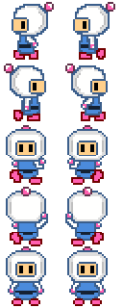
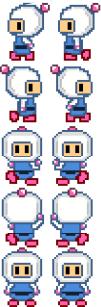
changement map & colision fix

diff --git a/js/map.js b/js/map.js
@@ -1,4 +1,4 @@
-export {tilemap_loaded, tileset_loaded, cam_x, cam_y, map_cnv};
+export {tilemap_loaded, tileset_loaded, cam_x, cam_y, map_cnv, posbloc};
 
 
 let cnv = document.getElementById('myCanvas');
@@ -12,7 +12,9 @@ let tileset_loaded = 0;
 let tileset_elts = [];
 let cam_x = 0;
 let cam_y = 0;
-let zoom = 5;
+let zoom = 10;
+let posbloc = [];
+
 
 export default function onload_tilemap() {
 	if (this.status == 200) {
@@ -125,10 +127,15 @@ export default function onload_tilemap() {
 							16 * zoom,
 							16 * zoom
 						);
+						posbloc.push([iw * (16 * zoom),
+							ih * (16 * zoom),
+							16 * zoom,
+							16 * zoom]);
 					}
 					layer1_data_i += 1;
 				}
 			}
+			let posBuisson = [];
 			let layer2_data_i = 0;
 			for (let ih = 0, nh = layer2_height; ih < nh; ih += 1) {
 				for (let iw = 0, nw = layer2_width; iw < nw; iw += 1) {
@@ -140,10 +147,15 @@ export default function onload_tilemap() {
 							16 * zoom,
 							16 * zoom
 						);
+						posBuisson.push([iw * (16 * zoom),
+							ih * (16 * zoom),
+							16 * zoom,
+							16 * zoom]);
 					}
 					layer2_data_i += 1;
 				}
 			}
+			console.log(posbloc)
 		};
 	}
 }
@@ -151,5 +163,5 @@ export default function onload_tilemap() {
 let xobj = new XMLHttpRequest();
 xobj.onload = onload_tilemap;
 xobj.overrideMimeType('application/json');
-xobj.open('GET', './tilemaps/projetbomberman.json', true);
+xobj.open('GET', 'tilemaps/map.json', true);
 xobj.send();

diff --git a/js/prg.js b/js/prg.js
@@ -1,4 +1,4 @@
-import {tilemap_loaded, tileset_loaded, cam_x, cam_y, map_cnv} from './map.js';
+import {tilemap_loaded, tileset_loaded, cam_x, cam_y, map_cnv, posbloc} from './map.js';
 
 import {
 	all_img
@@ -24,39 +24,29 @@ function update() {
 		let map_ctx = map_cnv.getContext('2d');
 		let imageData = map_ctx.getImageData(cam_x, cam_y, cnv.width, cnv.height);
 		ctx.putImageData(imageData, 0, 0);
-		let zoom = 1.5;
+		let zoom = 2;
 		ctx.fillStyle = '#FFFFFF';
-		ctx.drawImage(all_img[numero], posX, posY, 61.5 * zoom, 64 * zoom);
+		ctx.drawImage(all_img[numero], posX, posY, 51 * zoom, 61 * zoom);
 
 		if (bomb == true) {
 			ctx.drawImage(bombe, carrepox, carreposy, 50 * zoom, 50 * zoom);
 		}
 		ctx.closePath();
 
-		//ctx.beginPath()
-		//for(let i = 0; i < 5; i++) {
-		//	for(let j=0;j<5;j++){
-		//	ctx.rect(tabx[j],taby[i],153,130);
-		//	ctx.stroke();
-		//	}
-		//}
-		//ctx.closePath();
+		
 
 
 	}
 }
 
 function collision(x,y){
-	for(let i = 0; i < 5; i++) {
-		for(let j=0;j<5;j++){
-		if (posX < tabx[j] + 150 &&
-			posX + 61.5 > tabx[j]&&
-			posY < taby[i] + 130 &&
-			64 + posY > taby[i]) {
+	for(let i = 0; i < posbloc.length; i++) {
+		if (posX < posbloc[i][0] + posbloc[i][2] &&
+			posX + 51  > posbloc[i][0]&&
+			posY < posbloc[i][1] + posbloc[i][3] &&
+			61 + posY > posbloc[i][1]) {
 				posX += x;
 				posY += y;
-
-			}
 	 }
 	}
 }

diff --git a/js/personnage.js b/js/personnage.js
@@ -11,16 +11,16 @@ img.src = './tilesets/bomberman.png';
 
 img.onload = function () {
 	let canvas1 = document.createElement('canvas');
-	canvas1.width = 61.5 * 2;
-	canvas1.height = 64 * 5;
+	canvas1.width = 51 * 2;
+	canvas1.height = 61 * 5;
 	let context1 = canvas1.getContext('2d');
-	context1.drawImage(img, 0, 0, 61.5 * 2, 64 * 5);
+	context1.drawImage(img, 0, 0, 51 * 2, 61 * 5);
 	for (let j = 0; j < 5; j += 1) {
 		for (let i = 0; i < 2; i += 1) {
-			let canvasImageData1 = context1.getImageData(i * 61.5, j * 64, 61.5, 64);
+			let canvasImageData1 = context1.getImageData(i * 51, j * 61, 51, 61);
 			let canvas2 = document.createElement('canvas');
-			canvas2.width = 61.5;
-			canvas2.height = 64;
+			canvas2.width = 51;
+			canvas2.height = 61;
 			let context2 = canvas2.getContext('2d');
 			context2.putImageData(canvasImageData1, 0, 0);
 			all_img.push(canvas2);

diff --git a/tilesets/mapbomberman2.tsx b/tilesets/mapbomberman2.tsx
@@ -1,0 +1,7 @@
+<?xml version="1.0" encoding="UTF-8"?>
+<tileset version="1.5" tiledversion="1.7.2" name="mapbomberman" tilewidth="16" tileheight="16" tilecount="4960" columns="80">
+ <editorsettings>
+  <export target="tilemaps/mapbomberman2.json" format="json"/>
+ </editorsettings>
+ <image source="tilemaps/mapbomberman.png" width="1280" height="992"/>
+</tileset>

diff --git a/tilesets/mapbomberman64.tsx b/tilesets/mapbomberman64.tsx
@@ -1,0 +1,4 @@
+<?xml version="1.0" encoding="UTF-8"?>
+<tileset version="1.5" tiledversion="1.7.2" name="mapbomberman" tilewidth="64" tileheight="64" tilecount="300" columns="20">
+ <image source="../tilemaps/mapbomberman.png" width="1280" height="992"/>
+</tileset>
